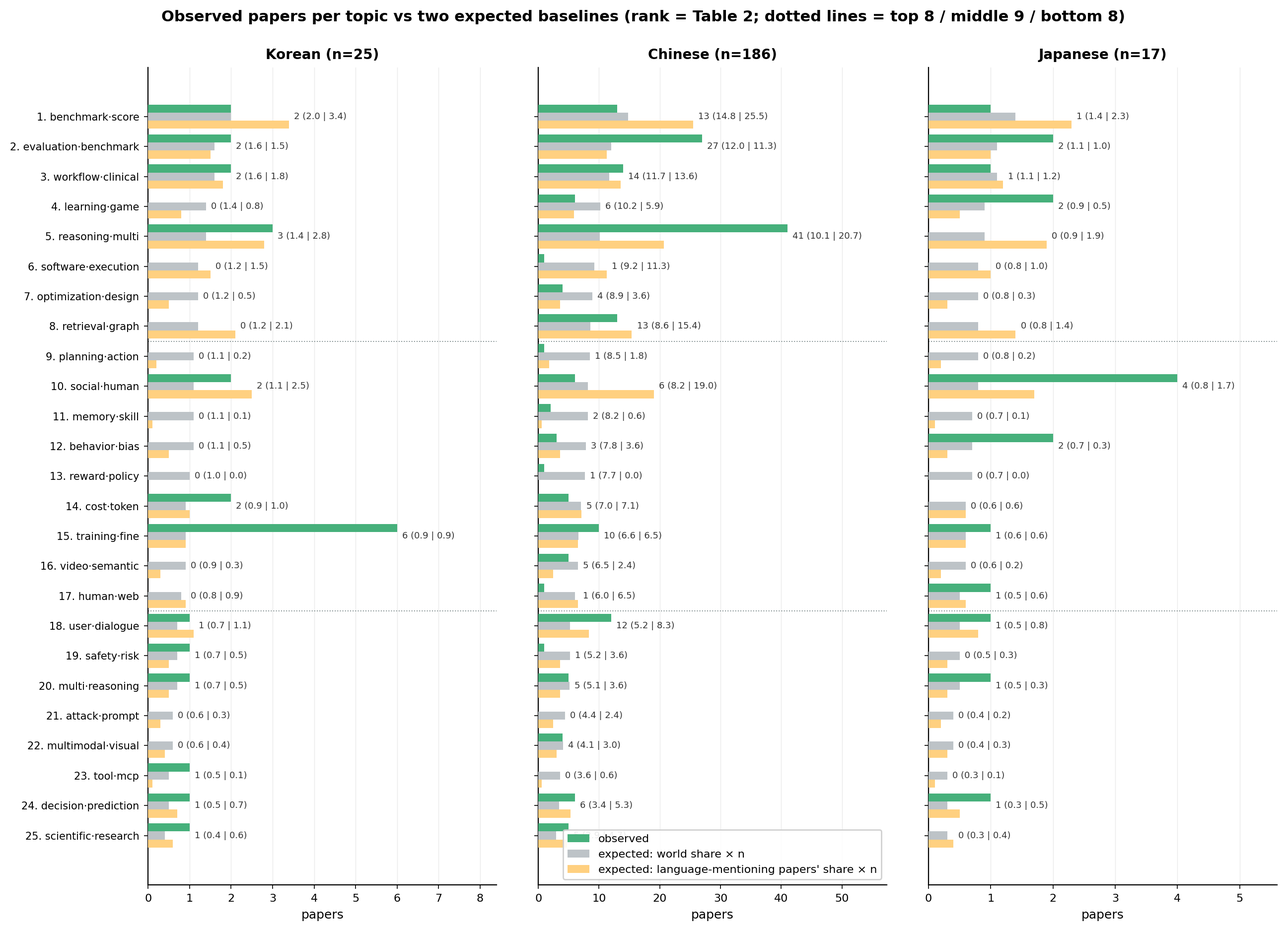
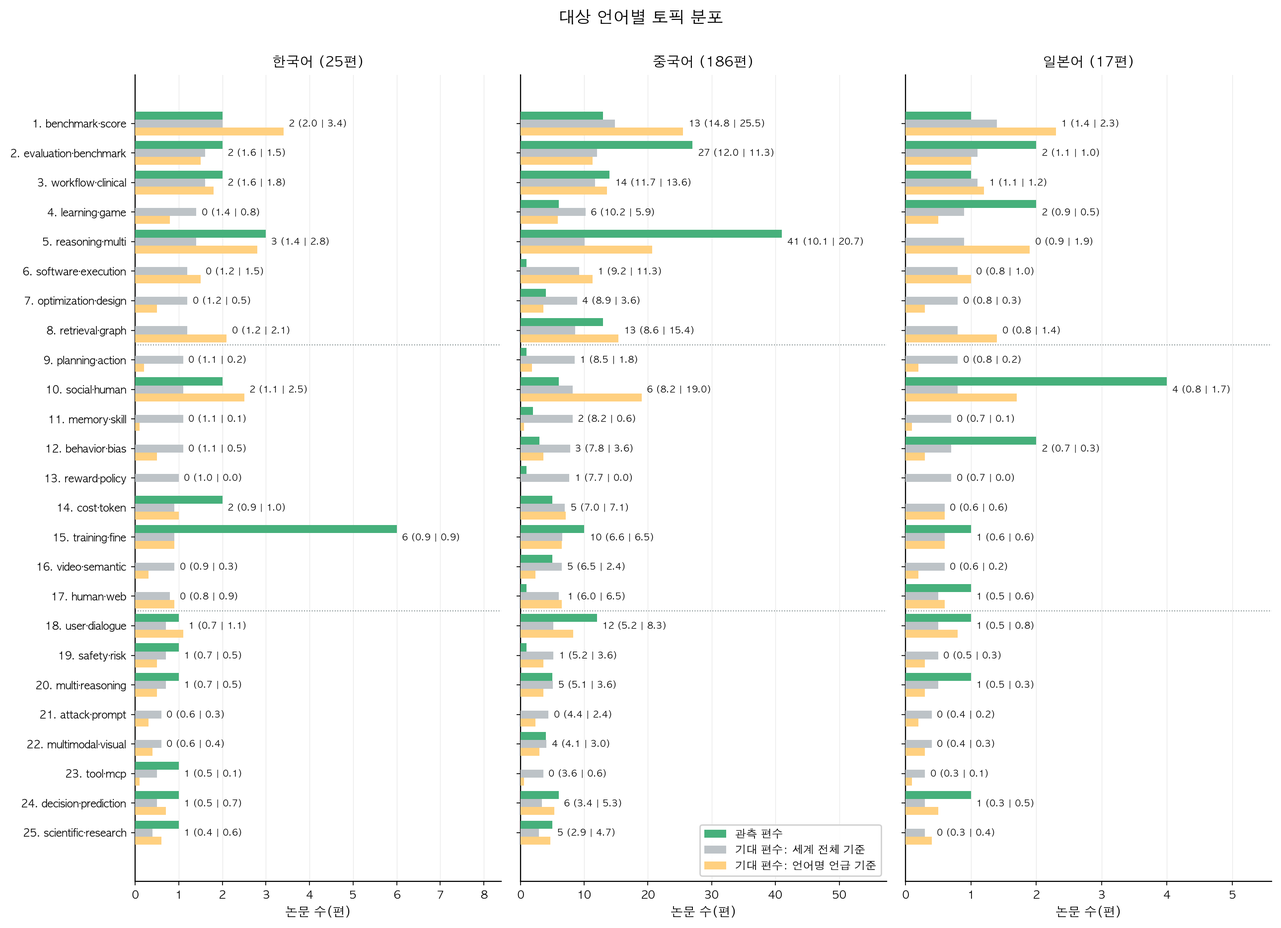
Localize paper figures and replace slope presentation with annual shares

diff --git a/paper/tables/tab_lda_topics.tex b/paper/tables/tab_lda_topics.tex
@@ -1,40 +1,40 @@
 % 자동 생성: paper/scripts/05_make_paper_tables.py --lda (정본 topics_lda_20261015.json)
 \begin{widetable}
 \centering
-\caption{LDA 토픽 25개(arXiv 20,107편, 전체 편수가 많은 순). 상위 단어는 각 토픽에서 단어 확률이 높은 다섯 개의 단어이다. 세계 열은 총 편수(비중 \%)와 연도별 편수 2023/2024/2025/2026(1$\sim$9월), 기울기는 연도별 점유율의 직선 기울기(pp/년)이다. 언어 열은 사람의 검수로 확정한 집합의 관측 편수(세계 전체 기준 기대 편수; 언어명을 언급한 세계 논문 기준 기대 편수)이며 기대 = 토픽 비중 $\times$ 집합 크기. $\uparrow$는 관측 편수가 세계 전체 기준 기대 편수의 1.5배 초과, $\downarrow$는 절반 미만(기대 1편 미만은 표시하지 않음). 가로줄은 상위 8개·중위 9개·하위 8개의 경계이다. 굵은 수치는 한국어 연구 방향의 비교 근거이다.}
+\caption{LDA 토픽 25개(arXiv 20,107편, 전체 편수가 많은 순). 상위 단어는 각 토픽에서 단어 확률이 높은 다섯 개의 단어이다. 세계 열은 총 편수(비중 \%)와 연도별 편수 2023/2024/2025/2026(1$\sim$9월)이다. 언어 열은 사람의 검수로 확정한 집합의 관측 편수(세계 전체 기준 기대 편수; 언어명을 언급한 세계 논문 기준 기대 편수)이며 기대 = 토픽 비중 $\times$ 집합 크기. $\uparrow$는 관측 편수가 세계 전체 기준 기대 편수의 1.5배 초과, $\downarrow$는 절반 미만(기대 1편 미만은 표시하지 않음). 가로줄은 상위 8개·중위 9개·하위 8개의 경계이다. 화살표는 기술적 비교 표시이며 통계적 유의성을 뜻하지 않는다. 굵은 수치는 한국어 연구 후보의 비교 근거이다.}
 \label{tab:topics}
 \resizebox{\textwidth}{!}{
-\begin{tabular}{rlrrrrrr}
+\begin{tabular}{rlrrrrr}
 \toprule
-순위 & 상위 단어 & 세계 편수 (\%) & 연도별 편수 & 기울기 & 한국어 (25) & 중국어 (186) & 일본어 (17) \\
+순위 & 상위 단어 & 세계 편수 (\%) & 연도별 편수 & 한국어 (25) & 중국어 (186) & 일본어 (17) \\
 \midrule
-1 & benchmark, score, run, control, evaluation & 1,602 (8.0) & 1/1/36/1,564 & +4.3 & 2 (2.0; 3.4) & 13 (14.8; 25.5) & 1 (1.4; 2.3) \\
-2 & evaluation, benchmark, evaluate, capability, research & 1,300 (6.5) & 25/173/559/543 & +0.6 & 2 (1.6; 1.5) & 27 (12.0; 11.3)$\uparrow$ & 2 (1.1; 1.0)$\uparrow$ \\
-3 & workflow, clinical, design, medical, multi & 1,264 (6.3) & 29/224/565/446 & -0.1 & 2 (1.6; 1.8) & 14 (11.7; 13.6) & 1 (1.1; 1.2) \\
-4 & learning, game, environment, learn, decision & 1,100 (5.5) & 168/317/443/172 & -7.5 & 0 (1.4; 0.8)$\downarrow$ & 6 (10.2; 5.9) & 2 (0.9; 0.5) \\
-5 & reasoning, multi, enhance, dataset, generate & 1,091 (5.4) & 68/321/515/187 & -3.0 & 3 (1.4; 2.8)$\uparrow$ & 41 (10.1; 20.7)$\uparrow$ & 0 (0.9; 1.9) \\
-6 & software, execution, failure, test, workflow & \textbf{997} (5.0) & 4/38/184/771 & +2.1 & \textbf{0} (1.2; 1.5)$\downarrow$ & 1 (9.2; 11.3)$\downarrow$ & 0 (0.8; 1.0) \\
-7 & optimization, design, search, generation, agentic & 966 (4.8) & 10/55/302/599 & +1.5 & 0 (1.2; 0.5)$\downarrow$ & 4 (8.9; 3.6)$\downarrow$ & 0 (0.8; 0.3) \\
-8 & retrieval, graph, knowledge, query, answer & \textbf{926} (4.6) & 17/72/278/559 & +1.0 & \textbf{0} (1.2; 2.1)$\downarrow$ & \textbf{13} (8.6; 15.4)$\uparrow$ & 0 (0.8; 1.4) \\
+1 & benchmark, score, run, control, evaluation & 1,602 (8.0) & 1/1/36/1,564 & 2 (2.0; 3.4) & 13 (14.8; 25.5) & 1 (1.4; 2.3) \\
+2 & evaluation, benchmark, evaluate, capability, research & 1,300 (6.5) & 25/173/559/543 & 2 (1.6; 1.5) & 27 (12.0; 11.3)$\uparrow$ & 2 (1.1; 1.0)$\uparrow$ \\
+3 & workflow, clinical, design, medical, multi & 1,264 (6.3) & 29/224/565/446 & 2 (1.6; 1.8) & 14 (11.7; 13.6) & 1 (1.1; 1.2) \\
+4 & learning, game, environment, learn, decision & 1,100 (5.5) & 168/317/443/172 & 0 (1.4; 0.8)$\downarrow$ & 6 (10.2; 5.9) & 2 (0.9; 0.5) \\
+5 & reasoning, multi, enhance, dataset, generate & 1,091 (5.4) & 68/321/515/187 & 3 (1.4; 2.8)$\uparrow$ & 41 (10.1; 20.7)$\uparrow$ & 0 (0.9; 1.9) \\
+6 & software, execution, failure, test, workflow & \textbf{997} (5.0) & 4/38/184/771 & \textbf{0} (1.2; 1.5)$\downarrow$ & 1 (9.2; 11.3)$\downarrow$ & 0 (0.8; 1.0) \\
+7 & optimization, design, search, generation, agentic & 966 (4.8) & 10/55/302/599 & 0 (1.2; 0.5)$\downarrow$ & 4 (8.9; 3.6)$\downarrow$ & 0 (0.8; 0.3) \\
+8 & retrieval, graph, knowledge, query, answer & \textbf{926} (4.6) & 17/72/278/559 & \textbf{0} (1.2; 2.1)$\downarrow$ & \textbf{13} (8.6; 15.4)$\uparrow$ & 0 (0.8; 1.4) \\
 \midrule
-9 & planning, action, reasoning, plan, environment & 924 (4.6) & 57/138/323/406 & -1.4 & 0 (1.1; 0.2)$\downarrow$ & 1 (8.5; 1.8)$\downarrow$ & 0 (0.8; 0.2) \\
-10 & social, human, simulation, behavior, generative & 888 (4.4) & 55/175/342/316 & -1.7 & 2 (1.1; 2.5)$\uparrow$ & 6 (8.2; 19.0) & 4 (0.8; 1.7) \\
-11 & memory, skill, long, context, experience & 882 (4.4) & 6/11/108/757 & +2.0 & 0 (1.1; 0.1)$\downarrow$ & 2 (8.2; 0.6)$\downarrow$ & 0 (0.7; 0.1) \\
-12 & behavior, bias, alignment, decision, uncertainty & 848 (4.2) & 23/81/234/510 & +0.4 & 0 (1.1; 0.5)$\downarrow$ & 3 (7.8; 3.6)$\downarrow$ & 2 (0.7; 0.3) \\
-13 & reward, policy, learning, trajectory, reinforcement & 828 (4.1) & 20/48/201/559 & +0.8 & 0 (1.0; 0.0)$\downarrow$ & 1 (7.7; 0.0)$\downarrow$ & 0 (0.7; 0.0) \\
-14 & cost, token, inference, gui, time & 762 (3.8) & 1/42/213/506 & +1.5 & 2 (0.9; 1.0) & 5 (7.0; 7.1) & 0 (0.6; 0.6) \\
-15 & training, fine, train, tuning, domain & 712 (3.5) & 29/71/260/352 & -0.2 & \textbf{6} (0.9; 0.9) & 10 (6.6; 6.5)$\uparrow$ & 1 (0.6; 0.6) \\
-16 & video, semantic, object, scene, temporal & 701 (3.5) & 25/105/207/364 & -0.2 & 0 (0.9; 0.3) & 5 (6.5; 2.4) & 0 (0.6; 0.2) \\
-17 & human, web, problem, instruction, solve & 647 (3.2) & 72/187/242/146 & -3.1 & 0 (0.8; 0.9) & 1 (6.0; 6.5)$\downarrow$ & 1 (0.5; 0.6) \\
+9 & planning, action, reasoning, plan, environment & 924 (4.6) & 57/138/323/406 & 0 (1.1; 0.2)$\downarrow$ & 1 (8.5; 1.8)$\downarrow$ & 0 (0.8; 0.2) \\
+10 & social, human, simulation, behavior, generative & 888 (4.4) & 55/175/342/316 & 2 (1.1; 2.5)$\uparrow$ & 6 (8.2; 19.0) & 4 (0.8; 1.7) \\
+11 & memory, skill, long, context, experience & 882 (4.4) & 6/11/108/757 & 0 (1.1; 0.1)$\downarrow$ & 2 (8.2; 0.6)$\downarrow$ & 0 (0.7; 0.1) \\
+12 & behavior, bias, alignment, decision, uncertainty & 848 (4.2) & 23/81/234/510 & 0 (1.1; 0.5)$\downarrow$ & 3 (7.8; 3.6)$\downarrow$ & 2 (0.7; 0.3) \\
+13 & reward, policy, learning, trajectory, reinforcement & 828 (4.1) & 20/48/201/559 & 0 (1.0; 0.0)$\downarrow$ & 1 (7.7; 0.0)$\downarrow$ & 0 (0.7; 0.0) \\
+14 & cost, token, inference, gui, time & 762 (3.8) & 1/42/213/506 & 2 (0.9; 1.0) & 5 (7.0; 7.1) & 0 (0.6; 0.6) \\
+15 & training, fine, train, tuning, domain & 712 (3.5) & 29/71/260/352 & \textbf{6} (0.9; 0.9) & 10 (6.6; 6.5)$\uparrow$ & 1 (0.6; 0.6) \\
+16 & video, semantic, object, scene, temporal & 701 (3.5) & 25/105/207/364 & 0 (0.9; 0.3) & 5 (6.5; 2.4) & 0 (0.6; 0.2) \\
+17 & human, web, problem, instruction, solve & 647 (3.2) & 72/187/242/146 & 0 (0.8; 0.9) & 1 (6.0; 6.5)$\downarrow$ & 1 (0.5; 0.6) \\
 \midrule
-18 & user, dialogue, conversational, interaction, conversation & 564 (2.8) & 34/75/186/269 & -0.8 & 1 (0.7; 1.1) & 12 (5.2; 8.3)$\uparrow$ & 1 (0.5; 0.8) \\
-19 & safety, risk, security, agentic, detection & 563 (2.8) & 4/13/151/395 & +1.1 & 1 (0.7; 0.5) & 1 (5.2; 3.6)$\downarrow$ & 0 (0.5; 0.3) \\
-20 & multi, reasoning, communication, collaboration, debate & 546 (2.7) & 12/45/180/309 & +0.4 & 1 (0.7; 0.5) & 5 (5.1; 3.6) & 1 (0.5; 0.3) \\
-21 & attack, prompt, defense, adversarial, injection & 479 (2.4) & 9/52/163/255 & +0.4 & 0 (0.6; 0.3) & 0 (4.4; 2.4)$\downarrow$ & 0 (0.4; 0.2) \\
-22 & multimodal, visual, vision, image, vlm & 446 (2.2) & 9/51/152/234 & +0.3 & 0 (0.6; 0.4) & 4 (4.1; 3.0) & 0 (0.4; 0.3) \\
-23 & tool, mcp, execution, privacy, external & 388 (1.9) & 3/27/94/264 & +0.6 & 1 (0.5; 0.1) & 0 (3.6; 0.6)$\downarrow$ & 0 (0.3; 0.1) \\
-24 & decision, prediction, financial, causal, market & 372 (1.9) & 0/23/110/239 & +0.7 & 1 (0.5; 0.7) & 6 (3.4; 5.3)$\uparrow$ & 1 (0.3; 0.5) \\
-25 & scientific, research, discovery, review, science & 311 (1.5) & 8/37/101/165 & +0.1 & 1 (0.4; 0.6) & 5 (2.9; 4.7)$\uparrow$ & 0 (0.3; 0.4) \\
+18 & user, dialogue, conversational, interaction, conversation & 564 (2.8) & 34/75/186/269 & 1 (0.7; 1.1) & 12 (5.2; 8.3)$\uparrow$ & 1 (0.5; 0.8) \\
+19 & safety, risk, security, agentic, detection & 563 (2.8) & 4/13/151/395 & 1 (0.7; 0.5) & 1 (5.2; 3.6)$\downarrow$ & 0 (0.5; 0.3) \\
+20 & multi, reasoning, communication, collaboration, debate & 546 (2.7) & 12/45/180/309 & 1 (0.7; 0.5) & 5 (5.1; 3.6) & 1 (0.5; 0.3) \\
+21 & attack, prompt, defense, adversarial, injection & 479 (2.4) & 9/52/163/255 & 0 (0.6; 0.3) & 0 (4.4; 2.4)$\downarrow$ & 0 (0.4; 0.2) \\
+22 & multimodal, visual, vision, image, vlm & 446 (2.2) & 9/51/152/234 & 0 (0.6; 0.4) & 4 (4.1; 3.0) & 0 (0.4; 0.3) \\
+23 & tool, mcp, execution, privacy, external & 388 (1.9) & 3/27/94/264 & 1 (0.5; 0.1) & 0 (3.6; 0.6)$\downarrow$ & 0 (0.3; 0.1) \\
+24 & decision, prediction, financial, causal, market & 372 (1.9) & 0/23/110/239 & 1 (0.5; 0.7) & 6 (3.4; 5.3)$\uparrow$ & 1 (0.3; 0.5) \\
+25 & scientific, research, discovery, review, science & 311 (1.5) & 8/37/101/165 & 1 (0.4; 0.6) & 5 (2.9; 4.7)$\uparrow$ & 0 (0.3; 0.4) \\
 \bottomrule
 \end{tabular}}
 \end{widetable}

diff --git a/analysis/scripts/19_plot_paper_figures.py b/analysis/scripts/19_plot_paper_figures.py
@@ -1,0 +1,116 @@
+#!/usr/bin/env python3
+"""원고 그림을 저장된 수치에서 그린다.
+
+- 입력: verification/overview_notebook_20261015.json, topics_lda_20261015.json
+- 출력: analysis/output/figures/, paper/figures/의 그림 두 개
+- 원고: 4.1 연도별 규모, 4.2.1 대상 언어별 토픽 분포
+"""
+from pathlib import Path
+import json
+import sys
+import shutil
+import matplotlib
+matplotlib.use('Agg')
+import matplotlib.pyplot as plt
+from matplotlib import font_manager
+import numpy as np
+import pandas as pd
+
+ROOT = Path(__file__).resolve().parents[2]
+
+
+def apply_style():
+    shared = Path.home() / 'weekly-planner/scripts'
+    if (shared / 'figure_style.py').exists():
+        sys.path.insert(0, str(shared))
+        import figure_style
+        figure_style.apply_style()
+    available = {f.name for f in font_manager.fontManager.ttflist}
+    for name in ['NanumGothic', 'Noto Sans CJK KR', 'AppleGothic', 'Malgun Gothic']:
+        if name in available:
+            plt.rcParams['font.family'] = name
+            break
+    else:
+        raise RuntimeError('국문 그림에는 NanumGothic 또는 Noto Sans CJK KR 글꼴이 필요합니다.')
+    plt.rcParams.update({'axes.unicode_minus': False, 'font.size': 10,
+                         'axes.spines.top': False, 'axes.spines.right': False})
+
+
+def plot_language_topics(table, sizes, output):
+    apply_style()
+    order = table.sort_values('n_all', ascending=False).index
+    sub = table.loc[order]
+    fig, axes = plt.subplots(1, 3, figsize=(13, 0.3 * len(table) + 1.8), sharey=True)
+    names = {'ko': '한국어', 'zh': '중국어', 'ja': '일본어'}
+    for ax, lang in zip(axes, names):
+        y = np.arange(len(table))
+        for offset, field, color, label in [
+            (-0.27, f'obs_{lang}', '#46B07B', '관측 편수'),
+            (0, f'exp_{lang}', '#BDC3C7', '기대 편수: 세계 전체 기준'),
+            (0.27, f'exp_lm_{lang}', '#FFD080', '기대 편수: 언어명 언급 기준'),
+        ]:
+            ax.barh(y + offset, sub[field], 0.27, color=color, label=label, zorder=3)
+        xmax = max(sub[f'obs_{lang}'].max(), sub[f'exp_{lang}'].max(), sub[f'exp_lm_{lang}'].max())
+        for i, t in enumerate(order):
+            obs, exp, lm = (sub.loc[t, f'{field}_{lang}'] for field in ['obs', 'exp', 'exp_lm'])
+            ax.text(max(obs, exp, lm) + 0.02 * xmax, i, f'{int(obs)} ({exp:.1f} | {lm:.1f})', va='center', fontsize=6.5)
+        for cut in (7.5, 16.5):
+            ax.axhline(cut, color='#7F8C8D', lw=0.7, ls=':')
+        ax.set_yticks(y)
+        ax.set_yticklabels([f'{i+1}. {sub.loc[t, "label"]}' for i, t in enumerate(order)], fontsize=7.5)
+        ax.set_title(f'{names[lang]} ({sizes[lang]}편)')
+        ax.set_xlabel('논문 수(편)')
+        ax.set_xlim(0, xmax * 1.4)
+        ax.grid(axis='y', visible=False)
+    axes[0].invert_yaxis()
+    axes[1].legend(loc='lower right', fontsize=8)
+    fig.suptitle('대상 언어별 토픽 분포', y=1.0, fontsize=12)
+    fig.tight_layout()
+    fig.savefig(output, dpi=200, bbox_inches='tight')
+    plt.close(fig)
+
+
+def plot_growth(overview, output):
+    apply_style()
+    keys = ['2023', '2024', '2025', '2026 (Jan-Sep)']
+    rows = [overview['table1'][k] for k in keys]
+    counts = [r['LLM-agent papers'] for r in rows]
+    shares = [100*r['LLM-agent papers']/r['cs papers (5 categories)'] for r in rows]
+    labels = ['2023', '2024', '2025', '2026\n1~9월']
+    fig, axes = plt.subplots(1, 2, figsize=(6.5, 2.7))
+    for ax, values, color, title, unit in zip(axes, [counts, shares], ['#46B07B', '#FF9E02'],
+                                            ['LLM 에이전트 논문 수', '전체 수집 논문 대비 비율'], ['편', '%']):
+        bars = ax.bar(labels, values, width=0.65, color=color, zorder=3)
+        bars[-1].set_hatch('///')
+        bars[-1].set_edgecolor('#4A4A4A')
+        ax.set_title(title, fontsize=10)
+        ax.set_ylabel(unit, fontsize=9)
+        ax.set_ylim(0, max(values)*1.25)
+        ax.tick_params(labelsize=9)
+        ax.grid(axis='y', alpha=0.25)
+        for bar, v in zip(bars, values):
+            label = f'{v:,}' if unit == '편' else f'{v:.1f}'
+            ax.text(bar.get_x()+bar.get_width()/2, v+max(values)*0.025, label, ha='center', fontsize=9)
+    fig.tight_layout()
+    fig.savefig(output, dpi=250, bbox_inches='tight')
+    plt.close(fig)
+
+
+def main():
+    output = ROOT / 'analysis/output/figures'
+    paper = ROOT / 'paper/figures'
+    output.mkdir(parents=True, exist_ok=True)
+    paper.mkdir(parents=True, exist_ok=True)
+    overview = json.loads((ROOT/'verification/overview_notebook_20261015.json').read_text())
+    topics = json.loads((ROOT/'verification/topics_lda_20261015.json').read_text())
+    table = pd.DataFrame(topics['project_lang']).T
+    sizes = {lang: int(table[f'obs_{lang}'].sum()) for lang in ['ko', 'zh', 'ja']}
+    plot_growth(overview, output/'fig1_corpus_growth.png')
+    plot_language_topics(table, sizes, output/'fig2b_lda_obs_vs_exp_lang.png')
+    for name in ['fig1_corpus_growth.png', 'fig2b_lda_obs_vs_exp_lang.png']:
+        shutil.copy2(output/name, paper/name)
+        print(name)
+
+
+if __name__ == '__main__':
+    main()

diff --git a/paper/scripts/05_make_paper_tables.py b/paper/scripts/05_make_paper_tables.py
@@ -49,7 +49,7 @@ def make_lda_tables() -> None:
             "\\setlength{\\tabcolsep}{2.5pt}\n\\resizebox{\\columnwidth}{!}{\n\\begin{tabular}{lrrrrrrr}\n\\toprule\n연도 & 전체 & \\shortstack{LLM\\\\에이전트} & 비중(\\%) & 한국어 & 중국어 & 일본어 & 합집합 \\\\\n\\midrule\n"
             + "\n".join(rows) + "\n\\bottomrule\n\\end{tabular}}\n\\end{table}\n")
     (out_dir / "tab_data_year.tex").write_text(tex1)
-    # 표 2 ─ LDA 토픽 25개: 순위, 상위 단어, 세계 편수(연도별), 기울기, 언어 집합 관측(기대)
+    # 표 2 ─ LDA 토픽 25개: 순위, 상위 단어, 세계 편수(연도별), 언어 집합 관측(기대)
     wt = sorted(ld["world_topic_table"].items(), key=lambda kv: kv[1]["world_rank"])
     N = ld["n_docs"]; sizes = {l: int(sum(r[f"{l}_obs"] for _, r in wt)) for l in ("ko", "zh", "ja")}
     def cell(r, l, highlight=False):
@@ -68,16 +68,15 @@ def make_lda_tables() -> None:
         if expansion:
             world = f"\\textbf{{{world}}}"
         yc = "/".join(f"{int(r[f'world_n_{y}']):,}" for y in (2023, 2024, 2025, 2026))
-        sl = r1(r["world_slope_pp_per_year"]); sl = sl if sl.startswith("-") else "+" + sl
-        lines.append(f"{int(r['world_rank'])} & {words} & {world} ({r1(100 * r['world_total'] / N)}) & {yc} & {sl} & {cell(r, 'ko', ko_focus)} & {cell(r, 'zh', zh_focus)} & {cell(r, 'ja')} \\\\")
+        lines.append(f"{int(r['world_rank'])} & {words} & {world} ({r1(100 * r['world_total'] / N)}) & {yc} & {cell(r, 'ko', ko_focus)} & {cell(r, 'zh', zh_focus)} & {cell(r, 'ja')} \\\\")
         if int(r["world_rank"]) in (8, 17):
             lines.append("\\midrule")
     tex2 = ("% 자동 생성: paper/scripts/05_make_paper_tables.py --lda (정본 topics_lda_" + ld["generated"] + ".json)\n"
-            "\\begin{widetable}\n\\centering\n\\caption{LDA 토픽 " + str(ld["K"]) + f"개(arXiv {N:,}편, 전체 편수가 많은 순). 상위 단어는 각 토픽에서 단어 확률이 높은 다섯 개의 단어이다. 세계 열은 총 편수(비중 \\%)와 연도별 편수 2023/2024/2025/2026(1$\\sim$9월), "
-            "기울기는 연도별 점유율의 직선 기울기(pp/년)이다. 언어 열은 사람의 검수로 확정한 집합의 관측 편수(세계 전체 기준 기대 편수; 언어명을 언급한 세계 논문 기준 기대 편수)이며 기대 = 토픽 비중 $\\times$ 집합 크기. "
-            "$\\uparrow$는 관측 편수가 세계 전체 기준 기대 편수의 1.5배 초과, $\\downarrow$는 절반 미만(기대 1편 미만은 표시하지 않음). 가로줄은 상위 8개·중위 9개·하위 8개의 경계이다. 굵은 수치는 한국어 연구 방향의 비교 근거이다.}\n\\label{tab:topics}\n"
-            "\\resizebox{\\textwidth}{!}{\n\\begin{tabular}{rlrrrrrr}\n\\toprule\n"
-            f"순위 & 상위 단어 & 세계 편수 (\\%) & 연도별 편수 & 기울기 & 한국어 ({sizes['ko']}) & 중국어 ({sizes['zh']}) & 일본어 ({sizes['ja']}) \\\\\n\\midrule\n"
+            "\\begin{widetable}\n\\centering\n\\caption{LDA 토픽 " + str(ld["K"]) + f"개(arXiv {N:,}편, 전체 편수가 많은 순). 상위 단어는 각 토픽에서 단어 확률이 높은 다섯 개의 단어이다. 세계 열은 총 편수(비중 \\%)와 연도별 편수 2023/2024/2025/2026(1$\\sim$9월)이다. "
+            "언어 열은 사람의 검수로 확정한 집합의 관측 편수(세계 전체 기준 기대 편수; 언어명을 언급한 세계 논문 기준 기대 편수)이며 기대 = 토픽 비중 $\\times$ 집합 크기. "
+            "$\\uparrow$는 관측 편수가 세계 전체 기준 기대 편수의 1.5배 초과, $\\downarrow$는 절반 미만(기대 1편 미만은 표시하지 않음). 가로줄은 상위 8개·중위 9개·하위 8개의 경계이다. 화살표는 기술적 비교 표시이며 통계적 유의성을 뜻하지 않는다. 굵은 수치는 한국어 연구 후보의 비교 근거이다.}\n\\label{tab:topics}\n"
+            "\\resizebox{\\textwidth}{!}{\n\\begin{tabular}{rlrrrrr}\n\\toprule\n"
+            f"순위 & 상위 단어 & 세계 편수 (\\%) & 연도별 편수 & 한국어 ({sizes['ko']}) & 중국어 ({sizes['zh']}) & 일본어 ({sizes['ja']}) \\\\\n\\midrule\n"
             + "\n".join(lines) + "\n\\bottomrule\n\\end{tabular}}\n\\end{widetable}\n")
     (out_dir / "tab_lda_topics.tex").write_text(tex2)
     # 표 4 ─ 키워드군 비율: 세계 · 언어 집합 · HCLT

diff --git a/analysis/scripts/02_make_notebooks.py b/analysis/scripts/02_make_notebooks.py
@@ -360,18 +360,10 @@ for l, m in groups.items():
     null = np.array([jsd_vs_rest(np.isin(np.arange(len(m)), rng.choice(len(m), n, replace=False))) for _ in range(2000)])
     perm[f"lang:{l}"] = {"n": n, "jsd_vs_rest": round(point, 4), "null_mean": round(float(null.mean()), 4), "null_q95": round(float(np.quantile(null, 0.95)), 4), "p_perm": round(float((np.sum(null >= point) + 1) / 2001), 4)}
 print(json.dumps(perm, indent=1)); display(t_lang.sort_values("n_all", ascending=False))
-fig, axes = plt.subplots(1, 3, figsize=(13, 0.3 * K + 1.8), sharey=True); order = t_lang.sort_values("n_all", ascending=False).index
-for ax, l in zip(axes, LANGS):
-    sub = t_lang.loc[order]; y = np.arange(K)
-    ax.barh(y - 0.27, sub[f"obs_{l}"], 0.27, color=C["green"], label="observed", zorder=3); ax.barh(y, sub[f"exp_{l}"], 0.27, color=C["gray_light"], label="expected: world share × n", zorder=3)
-    ax.barh(y + 0.27, sub[f"exp_lm_{l}"], 0.27, color=C["orange_light"], label="expected: language-mentioning papers' share × n", zorder=3)
-    xmax = max(sub[f"obs_{l}"].max(), sub[f"exp_{l}"].max(), sub[f"exp_lm_{l}"].max())
-    for i, t in enumerate(order): ax.text(max(sub.loc[t, f"obs_{l}"], sub.loc[t, f"exp_{l}"], sub.loc[t, f"exp_lm_{l}"]) + 0.02 * xmax, i, f"{int(sub.loc[t, f'obs_{l}'])} ({sub.loc[t, f'exp_{l}']:.1f} | {sub.loc[t, f'exp_lm_{l}']:.1f})", va="center", fontsize=6.5, color=C["text"])
-    for cut in (7.5, 16.5): ax.axhline(cut, color=C["gray"], lw=0.7, ls=":")
-    ax.set_yticks(y); ax.set_yticklabels([f"{i + 1}. {sub.label[t]}" for i, t in enumerate(order)], fontsize=7.5); ax.invert_yaxis(); ax.set_title(f"{LANG_NAME[l]} (n={int(groups[l].sum())})"); ax.set_xlabel("papers"); ax.grid(axis="y", visible=False)
-    ax.set_xlim(0, xmax * 1.4)
-axes[1].legend(loc="lower right"); fig.suptitle("Observed papers per topic vs two expected baselines (rank = Table 2; dotted lines = top 8 / middle 9 / bottom 8)", y=1.0, fontsize=11, fontweight="bold")
-plt.tight_layout(); plt.savefig(FIG / "fig2b_lda_obs_vs_exp_lang.png", dpi=200, bbox_inches="tight"); plt.show()'''),
+import importlib
+sys.path.insert(0, str(ROOT / "analysis/scripts"))
+paper_figures = importlib.import_module("19_plot_paper_figures")
+paper_figures.plot_language_topics(t_lang, {l: int(groups[l].sum()) for l in LANGS}, FIG / "fig2b_lda_obs_vs_exp_lang.png")'''),
     ("md", """## 7. 연도별 토픽 점유율(세계 전체)
 
 - 계산: 연도 × 토픽 점유율(열 합 1). 2026은 1~9월. 2026 대 2023 차이(퍼센트포인트)로 정렬

diff --git a/analysis/scripts/17_check_paper_denominators.py b/analysis/scripts/17_check_paper_denominators.py
@@ -73,13 +73,14 @@ tex=(R/'paper/tables/tab_lda_topics.tex').read_text()
 for line in tex.splitlines():
  line=re.sub(r'\\textbf\{([^{}]*)\}',r'\1',line)  # 표의 강조는 수치와 분리한다.
  if not re.match(r'^\d+ &',line):continue
- parts=line.split(' & ');rank=int(parts[0]);w=next(x for x in t['world_topic_table'].values() if x['world_rank']==rank)
+ parts=line.split(' & ');assert len(parts)==7, 'table 2 must contain seven columns';rank=int(parts[0]);w=next(x for x in t['world_topic_table'].values() if x['world_rank']==rank)
  check(int(parts[2].split(' (')[0].replace(',',''))==w['world_total'],f'table 2 rank {rank}: world count agrees')
- for part,l in zip(parts[5:8],['ko','zh','ja']):
+ for part,l in zip(parts[4:7],['ko','zh','ja']):
   vals=re.search(r'(\d+) \(([\d.]+); ([\d.]+)\)',part).groups()
   check(tuple(map(float,vals))==(w[f'{l}_obs'],w[f'{l}_exp'],w[f'{l}_exp_lm']),f'table 2 rank {rank}: {l} cell agrees')
-fig=Path('figures/fig2b_lda_obs_vs_exp_lang.png')
-check((R/'paper'/fig).read_bytes()==(R/'analysis/output'/fig).read_bytes(),'paper figure byte-identical to current analysis figure')
+for name in ['fig2b_lda_obs_vs_exp_lang.png', 'fig1_corpus_growth.png']:
+ fig=Path('figures')/name
+ check((R/'paper'/fig).read_bytes()==(R/'analysis/output'/fig).read_bytes(),'paper figure byte-identical to current analysis figure: '+name)
 for entry in json.loads((R/'preprocessing/output/corpus_manifest.json').read_text())['files'][:2]:
  check(hashlib.sha256((R/entry['path']).read_bytes()).hexdigest()==entry['sha256'],'current corpus hash matches manifest: '+entry['path'])
 print('DENOMINATORS',{'world':N,**sizes,'target_union':226,'signals':257,'language_mention':len(lm),'year':dict(years),'HCLT':62})

diff --git a/paper_code/run.py b/paper_code/run.py
@@ -3,7 +3,7 @@
 
 입력: preprocessing/output, analysis/output, verification(20261015 기준).
 출력: check는 터미널만, tables/notebooks는 --output의 새 격리 사본과 실행 기록.
-논문 위치: 3장 표 1, 4장 표 2·3/그림 1/본문 수치. 수집/API 호출은 하지 않는다.
+논문 위치: 3장 표 1, 4장 표 2·3/그림 1·2/본문 수치. 수집/API 호출은 하지 않는다.
 """
 from __future__ import annotations
 
@@ -71,7 +71,7 @@ def prepare(output):
     ignore = shutil.ignore_patterns("__pycache__", "*.aux", "*.log", "*.fls", "*.fdb_latexmk", "*.pdf", "hclt_ocr")
     for rel in paths:
         shutil.copytree(ROOT / rel, work / rel, ignore=ignore)
-    for rel in ["analysis/output/cache/lemmas_2023_2026q3.jsonl", "analysis/output/cache/agent_colloc_2023_2026q3.jsonl", "analysis/output/hclt_tokens.csv", "analysis/output/arxiv_lemma_families_2023_2026q3.csv", "analysis/output/figures/fig2b_lda_obs_vs_exp_lang.png"]:
+    for rel in ["analysis/output/cache/lemmas_2023_2026q3.jsonl", "analysis/output/cache/agent_colloc_2023_2026q3.jsonl", "analysis/output/hclt_tokens.csv", "analysis/output/arxiv_lemma_families_2023_2026q3.csv", "analysis/output/figures/fig2b_lda_obs_vs_exp_lang.png", "analysis/output/figures/fig1_corpus_growth.png"]:
         dst = work / rel
         dst.parent.mkdir(parents=True, exist_ok=True)
         shutil.copy2(ROOT / rel, dst)

diff --git a/paper_code/README.md b/paper_code/README.md
@@ -7,8 +7,9 @@
 | 전체 | 분모·관측·기대 편수 | `corpus_counts.pipeline`, `topics_lda.world_topic_table` | [분모 검증](../analysis/scripts/17_check_paper_denominators.py) | [ ] |
 | 3장 표 1 | 연도별 자료 규모 | `overview_notebook.table1` | [01](../analysis/notebooks/01_corpus_overview.ipynb) | [ ] |
 | 4장 표 2 | 25개 토픽과 언어 분포 | `topics_lda.world_topic_table`, `lang_mention_baseline` | [02](../analysis/notebooks/02_lda.ipynb) | [ ] |
-| 4장 그림 1 | 두 기준의 기대 편수 | `topics_lda.project_lang` | [02](../analysis/notebooks/02_lda.ipynb) | [ ] |
-| 4.1 | 반복 학습의 추세 | `topics_lda.slope_by_seed`, `stability_mean_jaccard` | [02](../analysis/notebooks/02_lda.ipynb) | [ ] |
+| 4장 그림 1 | 두 기준의 기대 편수 | `topics_lda.project_lang` | [그림 생성](../analysis/scripts/19_plot_paper_figures.py) | [ ] |
+| 4.1 그림 2 | 연도별 편수·비율 | `overview_notebook.table1` | [그림 생성](../analysis/scripts/19_plot_paper_figures.py) | [ ] |
+| 4장·4.1 | 토픽 구성의 안정성과 연도별 비중 | `topics_lda.stability_mean_jaccard`, `world_topic_table` | [02](../analysis/notebooks/02_lda.ipynb) | [ ] |
 | 4.1.1 | 인접 연어의 비율 | `agent_colloc.world`, `set_sizes` | [추출](../analysis/scripts/12_agent_collocations.py), [07](../analysis/notebooks/07_agent_collocations.ipynb) | [ ] |
 | 4.1.1 | 특징 어휘의 비율 | `meta_keyness.y2026_top`, `n_2026`, `n_prior` | [08](../analysis/notebooks/08_keyness.ipynb) | [ ] |
 | 4.2.1 | 전체 분포 순열 검정 | `topics_lda.permutation` | [02](../analysis/notebooks/02_lda.ipynb) | [ ] |
@@ -20,6 +21,7 @@
 
 ```bash
 python paper_code/run.py check
+python analysis/scripts/19_plot_paper_figures.py
 python paper_code/run.py tables --output /tmp/agent-tables
 python paper_code/run.py notebooks --output /tmp/agent-analysis
 ```

diff --git a/REPRODUCIBILITY.md b/REPRODUCIBILITY.md
@@ -34,3 +34,13 @@ python paper_code/run.py notebooks --notebooks 01 02 05 07 08 10 --output /tmp/a
 확인한 범위와 미실행 항목은 [검증 기록](paper_code/VALIDATION.md)에 있다.
 
 학술대회 요약·OCR 텍스트 및 형태소 텍스트는 배포하지 않는다. 학술대회 키워드 판정을 처음부터 다시 추출하려면 원문 요약을 별도로 확보하고 경계를 검수해야 한다. 공개 판정은 기존 분석에 사용한 값이며, OCR 요약 경계 오류를 교정한 재분석 결과는 아니다. 상위 명사 탐색은 공개 재현에서 제외한다.
+
+## 원고 그림
+
+```bash
+python analysis/scripts/19_plot_paper_figures.py
+```
+
+저장된 정본에서 그림 1(대상 언어별 토픽 분포)과 그림 2(연도별 편수·비율)를 만든다. 토픽명은 영어 원문을 유지하고 설명은 국문으로 표시한다. NanumGothic, Noto Sans CJK KR, AppleGothic, Malgun Gothic 중 하나가 필요하다. 분석과 모델 학습은 다시 실행하지 않는다.
+
+표 2에는 기울기를 표시하지 않는다. 기존 정본의 기울기와 반복 학습 값은 분석 기록으로 보존하며, 원고의 주제 변화는 연도별 비중으로 설명한다. 토픽별 검정은 선택한 전처리와 LDA 모델에 조건부인 결과이다. 전처리·토픽 수 변경에 따른 체계적인 민감도 분석(sensitivity analysis)은 완료하지 않았다.

diff --git a/paper_code/ch4_1_trends/README.md b/paper_code/ch4_1_trends/README.md
@@ -1,7 +1,7 @@
 # 4.1 주제 변화
 
-- 결과: LDA 추세, 연어·특징 어휘의 문서 비율.
-- 정본: `topics_lda.slope_by_seed`, `agent_colloc.world`, `meta_keyness.y2026_top` (`verification/*_20261015.json`).
+- 결과: 연도별 자료 규모·LDA 토픽 비중, 연어·특징 어휘의 문서 비율.
+- 정본: `overview_notebook.table1`, `topics_lda.world_topic_table`, `agent_colloc.world`, `meta_keyness.y2026_top` (`verification/*_20261015.json`).
 - 코드: [`analysis/scripts/02_make_notebooks.py`](../../analysis/scripts/02_make_notebooks.py).
 - 노트북: `analysis/notebooks/`의 02·07·08번.
 
